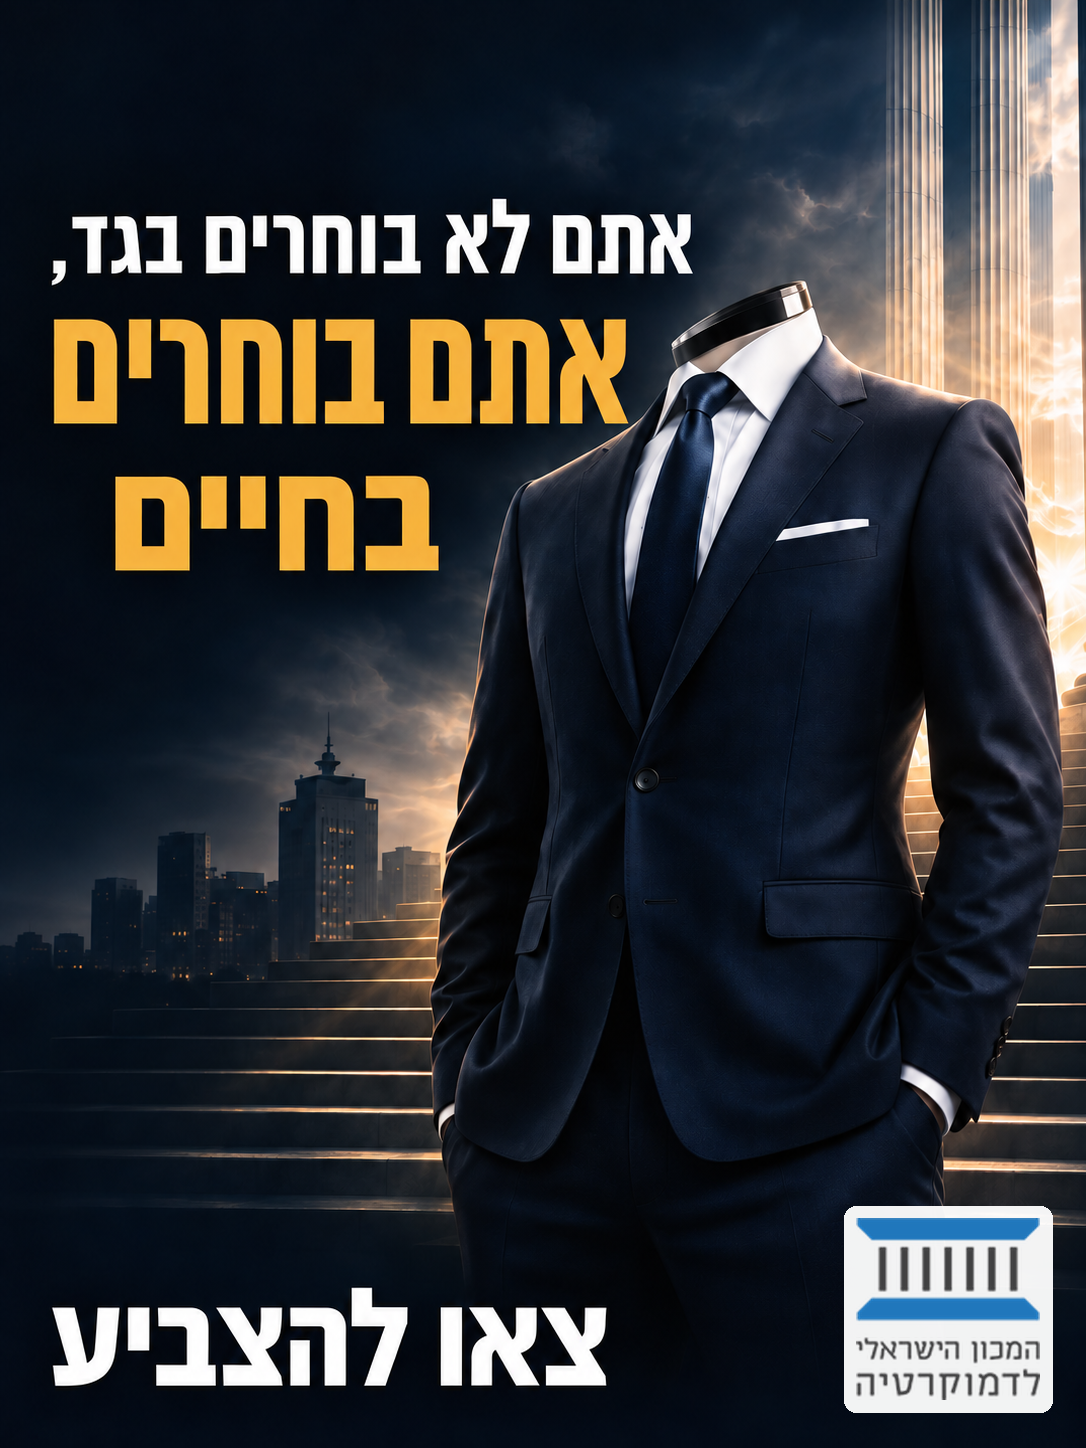
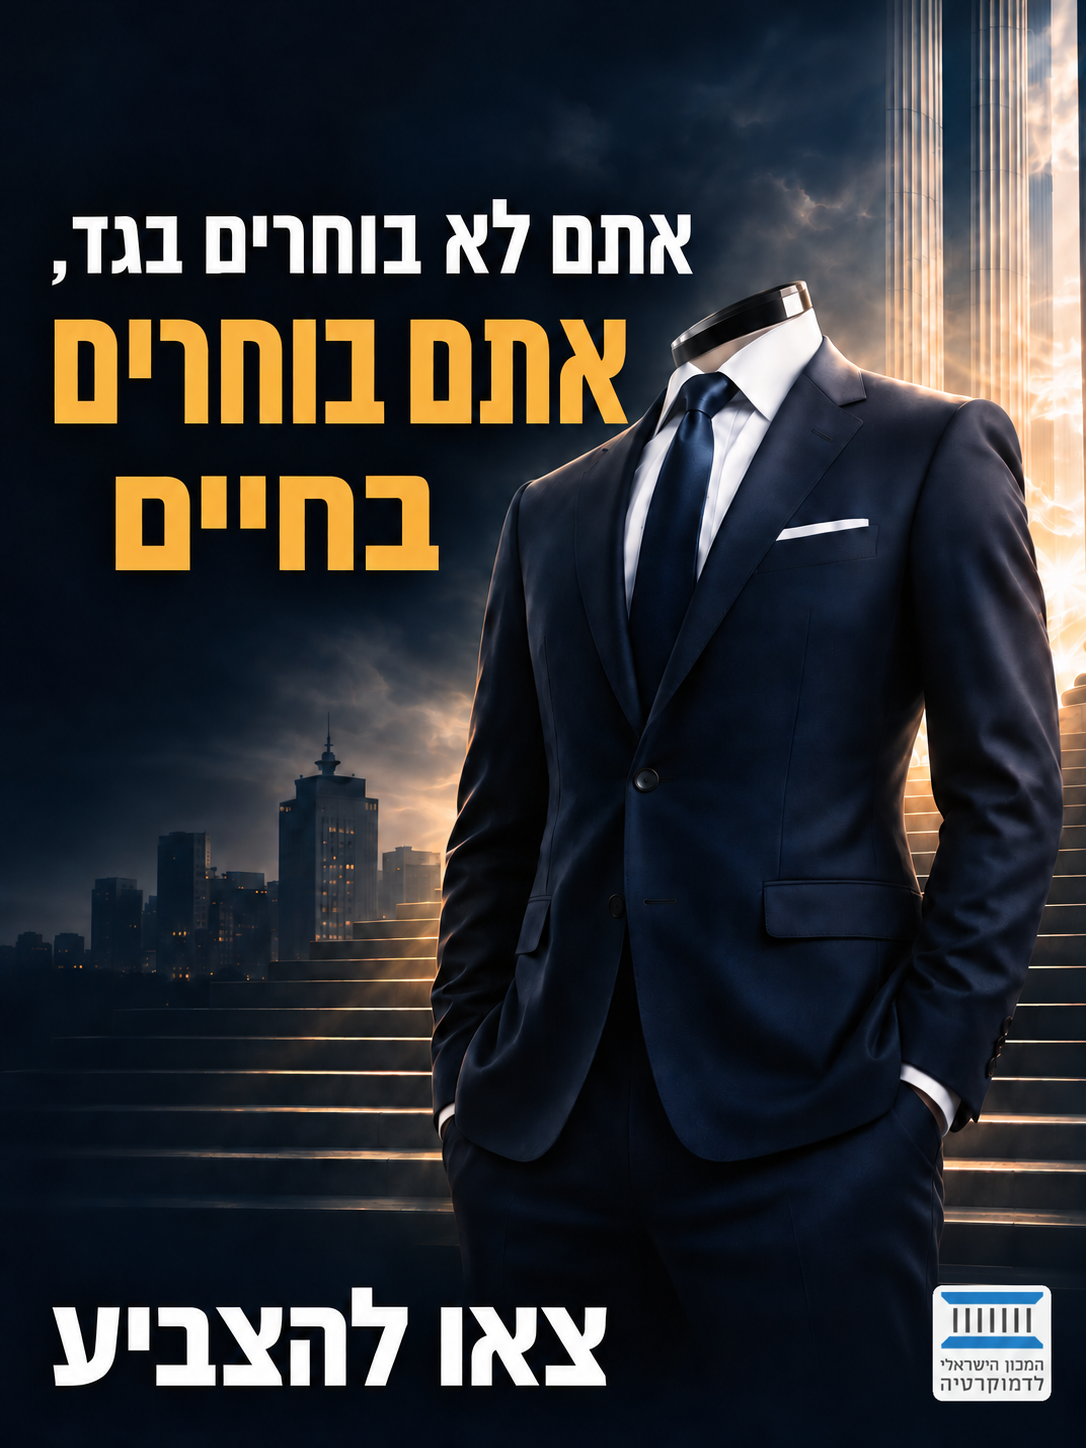
Update election and Timberland campaign visuals

Changed region(s): [[0.7597, 0.808, 0.9724, 0.9945], [0.8508, 0.0, 0.8812, 0.1554], [0.0912, 0.1554, 0.1215, 0.1865]]

diff --git a/vote-2026.html b/vote-2026.html
@@ -20,9 +20,9 @@
 <body>
   <header class="topbar"><a class="brand" href="index.html">AVIVEL<br>DAVIDI</a><a class="back" href="works.html">חזרה לעבודות</a></header>
   <main>
-    <section class="hero"><figure class="hero-visual"><img src="media/projects/vote-2026/vote-bus.png" alt="פרסומת בחירות 2026 על אוטובוס"></figure><div class="hero-copy"><p class="eyebrow">08 / CASE STUDY</p><h1>בחירות<br>2026</h1><p class="lead">יש בחירות בחיים, ויש בחירות לחיים.</p><hr class="accent"></div></section>
+    <section class="hero"><figure class="hero-visual"><img src="media/projects/vote-2026/vote-stroller-poster.png" alt="מודעת בחירות עם עגלת תינוק"></figure><div class="hero-copy"><p class="eyebrow">08 / CASE STUDY</p><h1>בחירות<br>2026</h1><p class="lead">יש בחירות בחיים, ויש בחירות לחיים.</p><hr class="accent"></div></section>
     <section class="story" aria-label="מאחורי הקמפיין"><article class="story-card"><p class="story-num">01 / האתגר</p><h2>לעודד הצבעה</h2><p>להזכיר לציבור שהקול שלו משפיע, ולעודד אנשים להגיע לקלפי.</p></article><article class="story-card"><p class="story-num">02 / הרעיון</p><h2>בחירה קטנה, משמעות גדולה</h2><p>להציב בחירות יומיומיות לצד הבחירה החשובה באמת: הבחירה שמשפיעה על החיים.</p></article><article class="story-card"><p class="story-num">03 / מה עשיתי</p><h2>שלושה פורמטים</h2><p>יצרתי פוסט על בחירה בסרט מול בחירה לחיים, שלט חוצות ופרסומת על אוטובוסים.</p></article></section>
-    <section><div class="work-head"><h2>העבודות בקמפיין</h2></div><div class="gallery"><figure><button type="button" data-full="media/projects/vote-2026/vote-coffee-tea.png" aria-label="הגדלת עבודה 1"><img loading="lazy" decoding="async" src="media/projects/vote-2026/vote-coffee-tea.png" alt="מודעת בחירות 2026: קפה או תה"></button></figure><figure><button type="button" data-full="media/projects/vote-2026/vote-comedy-horror.png" aria-label="הגדלת עבודה 2"><img loading="lazy" decoding="async" src="media/projects/vote-2026/vote-comedy-horror.png" alt="מודעת בחירות 2026: קומדיה או אימה"></button></figure><figure><button type="button" data-full="media/projects/vote-2026/vote-shoes.png" aria-label="הגדלת עבודה 3"><img loading="lazy" decoding="async" src="media/projects/vote-2026/vote-shoes.png" alt="מודעת בחירות 2026: עקב או שטוח"></button></figure><figure><button type="button" data-full="media/projects/vote-2026/vote-bus.png" aria-label="הגדלת עבודה 4"><img loading="lazy" decoding="async" src="media/projects/vote-2026/vote-bus.png" alt="פרסומת בחירות 2026 על אוטובוס"></button></figure></div></section>
+    <section><div class="work-head"><h2>העבודות בקמפיין</h2></div><div class="gallery"><figure><button type="button" data-full="media/projects/vote-2026/vote-stroller-poster.png" aria-label="הגדלת עבודה 1"><img loading="lazy" decoding="async" src="media/projects/vote-2026/vote-stroller-poster.png" alt="מודעת בחירות עם עגלת תינוק"></button></figure><figure><button type="button" data-full="media/projects/vote-2026/vote-delivery-poster.png" aria-label="הגדלת עבודה 2"><img loading="lazy" decoding="async" src="media/projects/vote-2026/vote-delivery-poster.png" alt="מודעת בחירות עם אופנוע שליחויות"></button></figure><figure><button type="button" data-full="media/projects/vote-2026/vote-suit-poster.png" aria-label="הגדלת עבודה 3"><img loading="lazy" decoding="async" src="media/projects/vote-2026/vote-suit-poster.png" alt="מודעת בחירות עם חליפה"></button></figure></div></section>
     <footer class="footer"><p>אביב-אל דוידי · קופי, ארט וכתיבה</p><a href="mailto:AVIVELD146@GMAIL.COM">AVIVELD146@GMAIL.COM</a></footer>
   </main>
   <button class="image-dialog" id="image-dialog" type="button" hidden aria-label="סגירת התמונה המוגדלת"><span>×</span><img id="dialog-image" alt=""></button>

diff --git a/index.html b/index.html
@@ -238,7 +238,7 @@
       ["שונות","More concepts","misc",["chickens-safety-message.webp","cartoon-trump-netanyahu-dinner.webp","cartoon-police-dog-speeding.webp","bowtie-pasta-message.webp","bear-at-picnic-table.webp","anamorphs-red-pandas-book-cover.webp","popsi-lollipop-beach.webp","man-in-suit-on-rooftop.webp","horror-movie-characters-boo.webp","goldline-frozen-living-room.webp","fly-reading-newspaper-on-toilet.webp","deadpool-surrounded-by-guns.webp","deadpool-guns-closeup.webp","snack-soldiers-bag.webp","smirnoff-vodka-ice-block.webp","sick-man-with-tissues.webp","red-bus-crashing-into-building.webp","superhero-running-through-city.webp","steampunk-fly-workshop.webp","tree-saving-message.webp","dr fisher.png","klil.png","safari.png","Gemini_Generated_Image_cr4ovjcr4ovjcr4o.png","Gemini_Generated_Image_kodub0kodub0kodu.png","Gemini_Generated_Image_lvhsx4lvhsx4lvhs.png","Gemini_Generated_Image_tpk9gwtpk9gwtpk9.png"]],
       ["מקדונלד׳ס","Campaign concepts","mcdonalds",["mcdonalds-picnic.webp","mcdonalds-shabbat-dinner.webp","mcdonalds-baby-celebration.webp","mcdonalds-bachelorette.webp","mcdonalds-passover.webp","mcdonalds-bat-mitzvah.webp","mcdonalds-home-event.webp","mcdonalds-catering-boxes.webp","mcdonalds-catering-bags.webp"]],
       ["סנו","Home & care","sano",["sano-mosquito-clinic.png","sano-mosquito-living-room.png","sano-mosquito-office.png"]],
-      ["בחירות 2026","Campaign concepts","vote-2026",["vote-coffee-tea.png","vote-comedy-horror.png","vote-shoes.png","vote-bus.png"]],
+      ["בחירות 2026","Campaign concepts","vote-2026",["vote-stroller-poster.png","vote-delivery-poster.png","vote-suit-poster.png"]],
       ["MARVEL × אחת מתשע","Breast cancer awareness","marvel-one-in-nine",["invisible-woman.png","captain-marvel.png","she-hulk.png","captain-marvel-alt.jpg"]],
       ["oreo X Swatch","Brand collaboration","oreo-swatch",["oreo-swatch-watch-cream.png","oreo-swatch-watch-black.png","oreo-swatch-skate.png","oreo-swatch-arcade.png"]],
       ["OREO TIME","Cookie clock campaign","oreo-swatch",["oreo-swatch-cookie-clocks.png"]],
